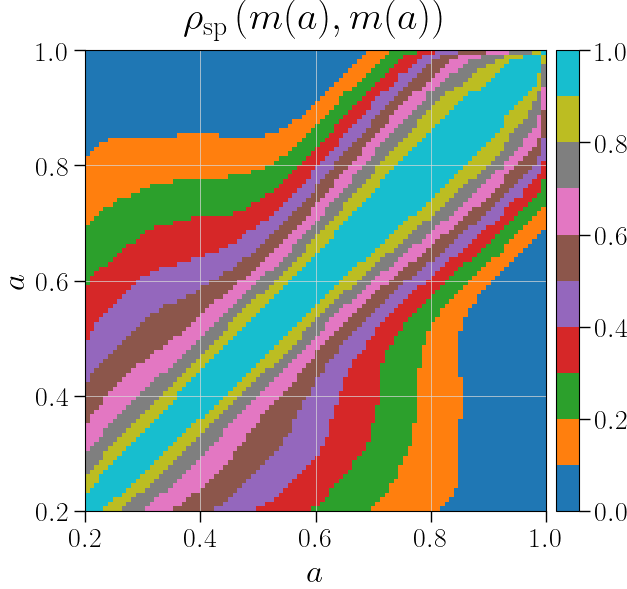
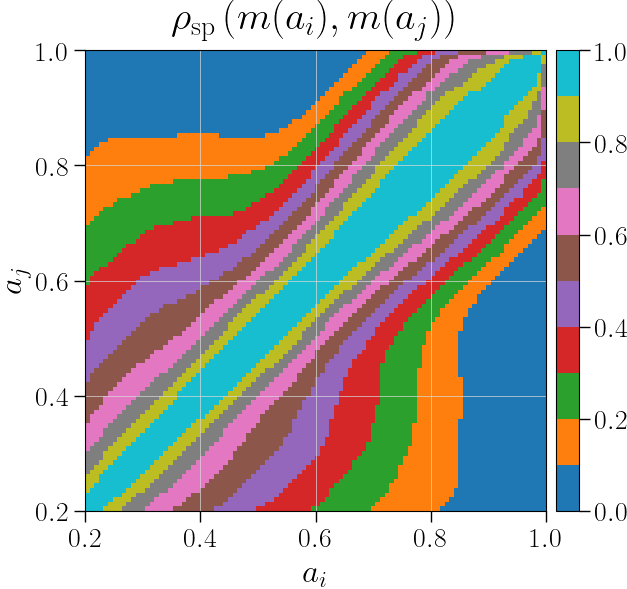
Im/add subindices matrix (#144)
* add indices to matrix

* no error bars on table since small

* change table to be with no error bars

* subtle bug

Changed region(s): [[0.2727, 0.0, 0.7273, 0.0611], [0.0, 0.4584, 0.0606, 0.5195], [0.4848, 0.9474, 0.5152, 1.0]]

diff --git a/bin/figures.py b/bin/figures.py
@@ -162,10 +162,10 @@ class CorrelationMAH(Figure):
         )
         for param in self.params:
             latex_param = rxplots.LATEX_PARAMS[param]
-            scale, val_ma, err_ma = data["ma_max_dict"][param]
-            mass_bin, val_am, err_am = data["am_max_dict"][param]
-            table += rf"{latex_param} & ${scale:.3f}$ & ${val_ma:.3f} \pm {err_ma:.3f}$"
-            table += rf" & ${mass_bin:.3f}$ & ${val_am:.3f} \pm {err_am:.3f}$ \\ \hline"
+            scale, val_ma, _ = data["ma_max_dict"][param]
+            mass_bin, val_am, _ = data["am_max_dict"][param]
+            table += rf"{latex_param} & ${scale:.3f}$ & ${val_ma:.3f}$"
+            table += rf" & ${mass_bin:.3f}$ & ${val_am:.3f}$\\ \hline"
             table += "\n"
 
         table += r"\end{tabular}" + "\n" + r"\caption{}" + "\n" + r"\end{table*}"
@@ -922,9 +922,9 @@ class CovarianceAm(Figure):
         fig1, ax = plt.subplots(1, 1)
         im = ax.imshow(corr, vmin=0, vmax=1, extent=(-0.01, 100, -0.01, 100))
 
-        ax.set_xlabel(r"$a$")
-        ax.set_ylabel(r"$a$")
-        ax.set_title(rf"${rho_latex}\left(m(a), m(a) \right)$", pad=15.0)
+        ax.set_xlabel(r"$a_{i}$")
+        ax.set_ylabel(r"$a_{j}$")
+        ax.set_title(rf"${rho_latex}\left(m(a_{{i}}), m(a_{{j}}) \right)$", pad=15.0)
 
         new_xticks = np.linspace(0, 100, 5)
         ax.set_xticks(ticks=new_xticks, labels=scale_bin_labels)
@@ -944,9 +944,9 @@ class CovarianceAm(Figure):
         fig2, ax = plt.subplots(1, 1)
         im = ax.imshow(corr, vmin=0, vmax=1, extent=(-0.01, 100, -0.01, 100))
 
-        ax.set_xlabel(r"$m$")
-        ax.set_ylabel(r"$m$")
-        ax.set_title(rf"${rho_latex}\left( a(m), a(m) \right)$", pad=15.0)
+        ax.set_xlabel(r"$m_{i}$")
+        ax.set_ylabel(r"$m_{j}$")
+        ax.set_title(rf"${rho_latex}\left( a(m_{{i}}), a(m_{{j}}) \right)$", pad=15.0)
         ax.set_xticks(ticks=ax.get_xticks()[1:], labels=mass_bin_labels)
         ax.set_yticks(ticks=ax.get_yticks()[1:], labels=mass_bin_labels)
 
